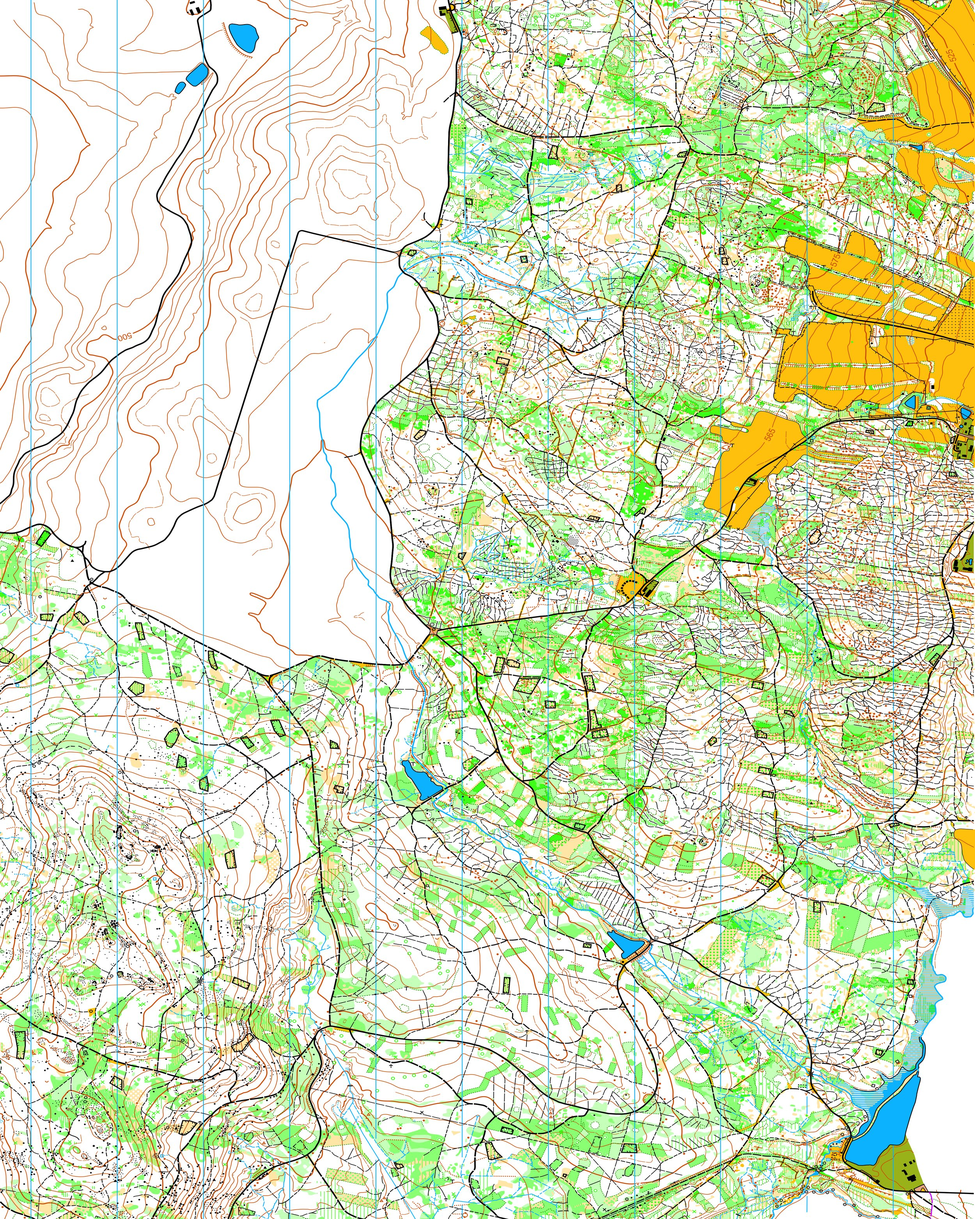
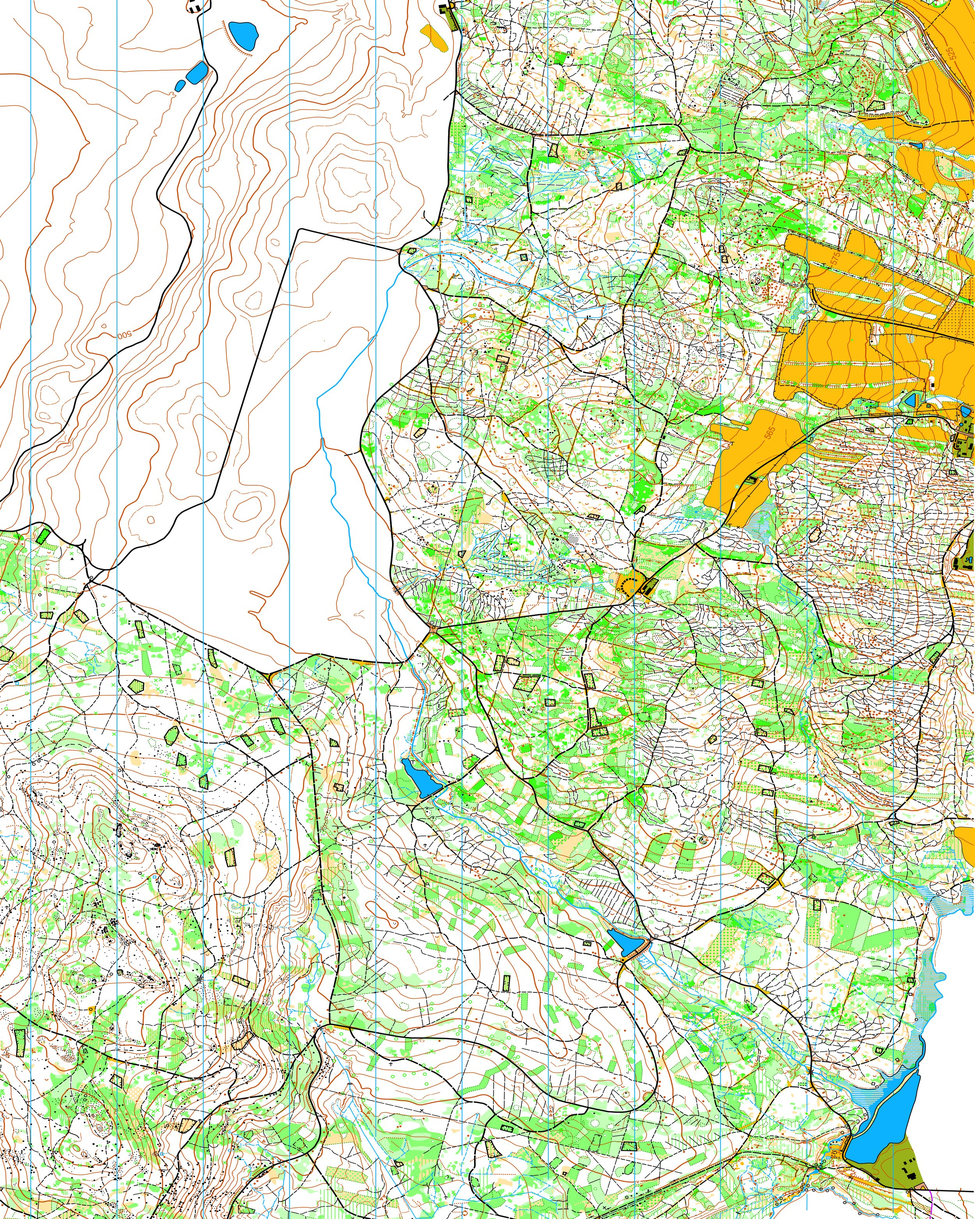
neco

diff --git a/export/app.js b/export/app.js
@@ -2258,6 +2258,7 @@ function renderProfileSaved() {
             thumbSrc = 'thumbs/map_' + route.map_id + '.jpg'; // fallback
         }
         
+        let thumbImgSrc = thumbSrc + (thumbsMeta && thumbsMeta.version ? '?v=' + thumbsMeta.version : '');
         let metaStyle = '';
         let animClass = 'animated-map-drift';
         if (thumbsMeta && thumbsMeta.routes && thumbsMeta.routes[basename]) {
@@ -2299,7 +2300,7 @@ function renderProfileSaved() {
             el.innerHTML = `
                 <div style="position: absolute; top: 0; left: 0; width: 100%; height: 100%; overflow: hidden;">
                     <div class="${animClass}" style="position: absolute; top: 50%; left: 50%; width: ${zoom*100}%; height: auto; --anim-dur: ${animDur.toFixed(1)}s; --ts-x: -${pts.start[0].toFixed(3)}%; --ts-y: -${(pts.start[1] - yCorr).toFixed(3)}%; --te-x: -${pts.end[0].toFixed(3)}%; --te-y: -${(pts.end[1] - yCorr).toFixed(3)}%;">
-                        <img src="${thumbSrc}" alt="${route.map_name}" style="width: 100%; height: auto; display: block;">
+                        <img src="${thumbImgSrc}" alt="${route.map_name}" style="width: 100%; height: auto; display: block;">
                         ${svgOverlay}
                     </div>
                 </div>
@@ -2308,7 +2309,7 @@ function renderProfileSaved() {
             metaStyle = `style="position: absolute; top: 0; left: 0; width: 150%; height: 150%;"`;
             el.innerHTML = `
                 <div class="${animClass}" ${metaStyle}>
-                    <img src="${thumbSrc}" alt="${route.map_name}" style="width: 100%; height: 100%; object-fit: cover; display: block;">
+                    <img src="${thumbImgSrc}" alt="${route.map_name}" style="width: 100%; height: 100%; object-fit: cover; display: block;">
                 </div>
             `;
         }

diff --git a/export/sw.js b/export/sw.js
@@ -1,4 +1,4 @@
-const CACHE_NAME = 'scrollienteering-v24';
+const CACHE_NAME = 'scrollienteering-v25';
 
 self.addEventListener('install', event => {
     // Instalace proběhne rychle, nebudeme čekat na obří preload

diff --git a/14_export_thumbnails.py b/14_export_thumbnails.py
@@ -5,11 +5,19 @@ Pro každou mapu vytvoří thumbnail s výřezem kolem bounding boxu všech post
 Pro každý jednotlivý postup vytvoří individuální thumbnail.
 """
 import os
+import sys
 import json
 import glob
 import math
 from PIL import Image, ImageDraw
 import config
+
+if sys.platform == "win32":
+    import io
+    if hasattr(sys.stdout, "buffer"):
+        sys.stdout = io.TextIOWrapper(sys.stdout.buffer, encoding="utf-8", errors="replace")
+    if hasattr(sys.stderr, "buffer"):
+        sys.stderr = io.TextIOWrapper(sys.stderr.buffer, encoding="utf-8", errors="replace")
 
 Image.MAX_IMAGE_PIXELS = None
 
@@ -43,12 +51,12 @@ def load_geojson_coords(geojson_path):
     return coords
 
 
-def geojson_to_pixel(coords, scale, offset_x, offset_y):
+def geojson_to_pixel(coords, scale):
     """Převede GeoJSON souřadnice zpět na pixelové souřadnice v originální mapě."""
     pixels = []
     for c in coords:
-        col = c[0] * scale - offset_x
-        row = -c[1] * scale - offset_y
+        col = c[0] * scale
+        row = -c[1] * scale
         pixels.append((col, row))
     return pixels
 
@@ -143,7 +151,7 @@ def generate_thumbnails():
         per_postup_features[basename] = features
         
         coords = load_geojson_coords(geojson_file)
-        pixels = geojson_to_pixel(coords, scale, config.MAP_OFFSET_X, config.MAP_OFFSET_Y)
+        pixels = geojson_to_pixel(coords, scale)
         all_pixels.extend(pixels)
         per_postup_pixels[basename] = pixels
     
@@ -181,8 +189,8 @@ def generate_thumbnails():
         # takže do JPEG se už trasa "nevypéká".
         
         def pt(c):
-            col = c[0] * scale - config.MAP_OFFSET_X
-            row = -c[1] * scale - config.MAP_OFFSET_Y
+            col = c[0] * scale
+            row = -c[1] * scale
             return (col - crop_box[0], row - crop_box[1])
             
         features = per_postup_features[basename]
@@ -226,7 +234,9 @@ def generate_thumbnails():
         entry["thumb"] = f"thumbs/{geojson_name}.jpg"
     
     # Přidáme mapové thumbnail info a metadata tras pro animace
+    import time
     thumbs_meta = {
+        "version": int(time.time()),
         "maps": {
             "homolka": "thumbs/map_homolka.jpg"
         },
